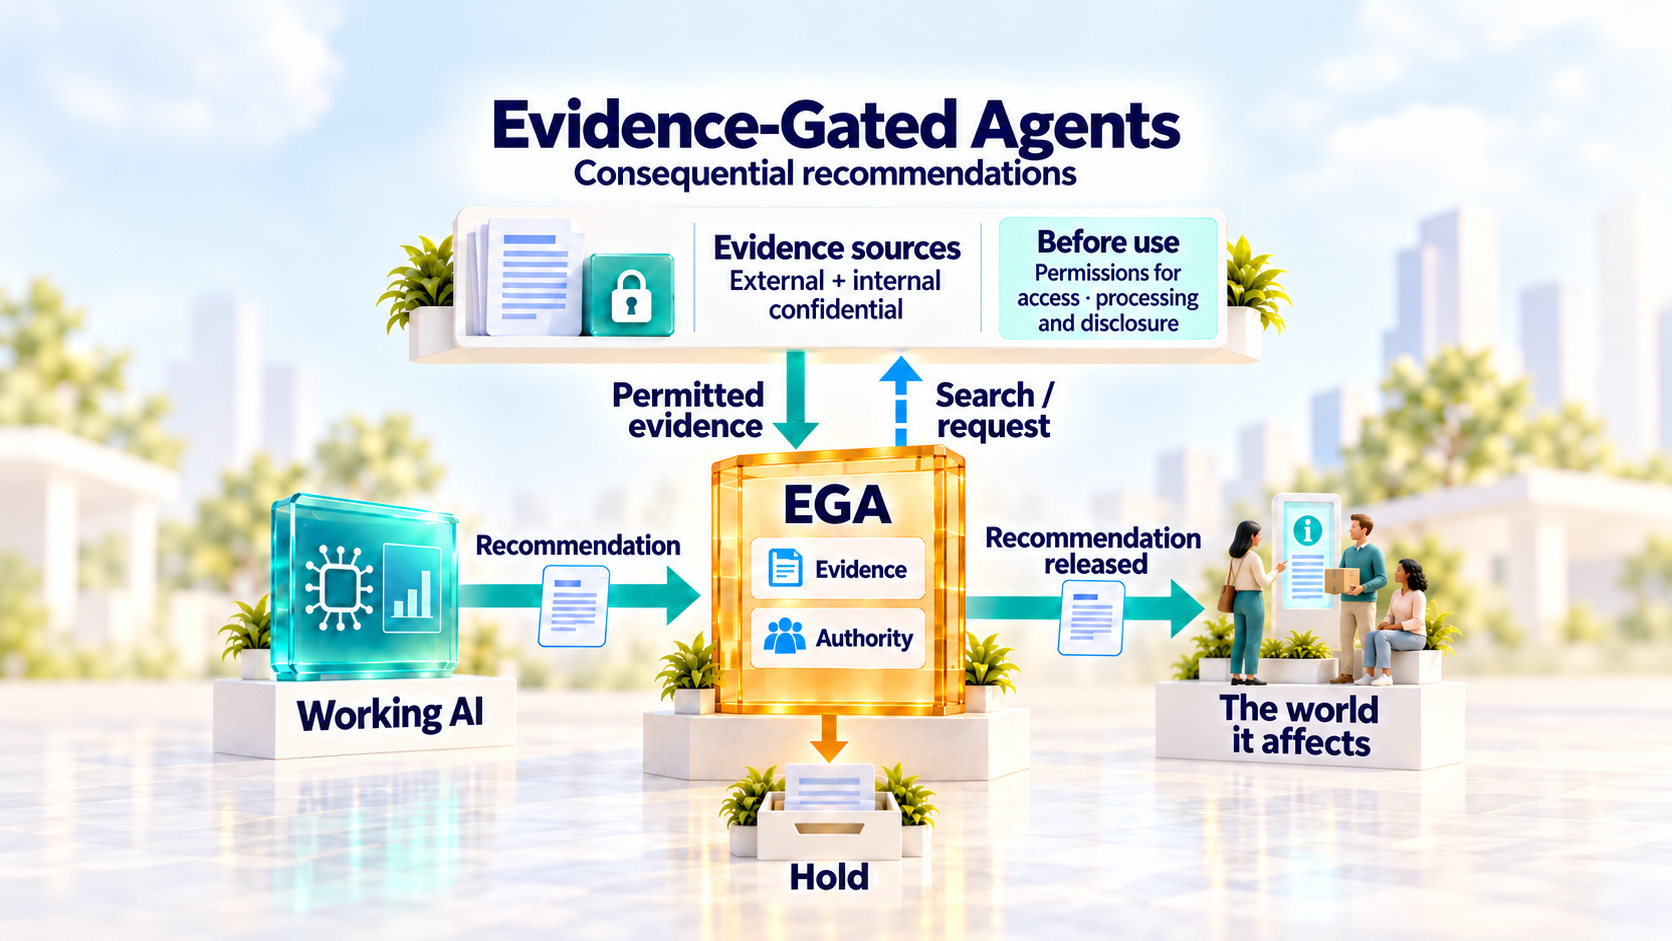
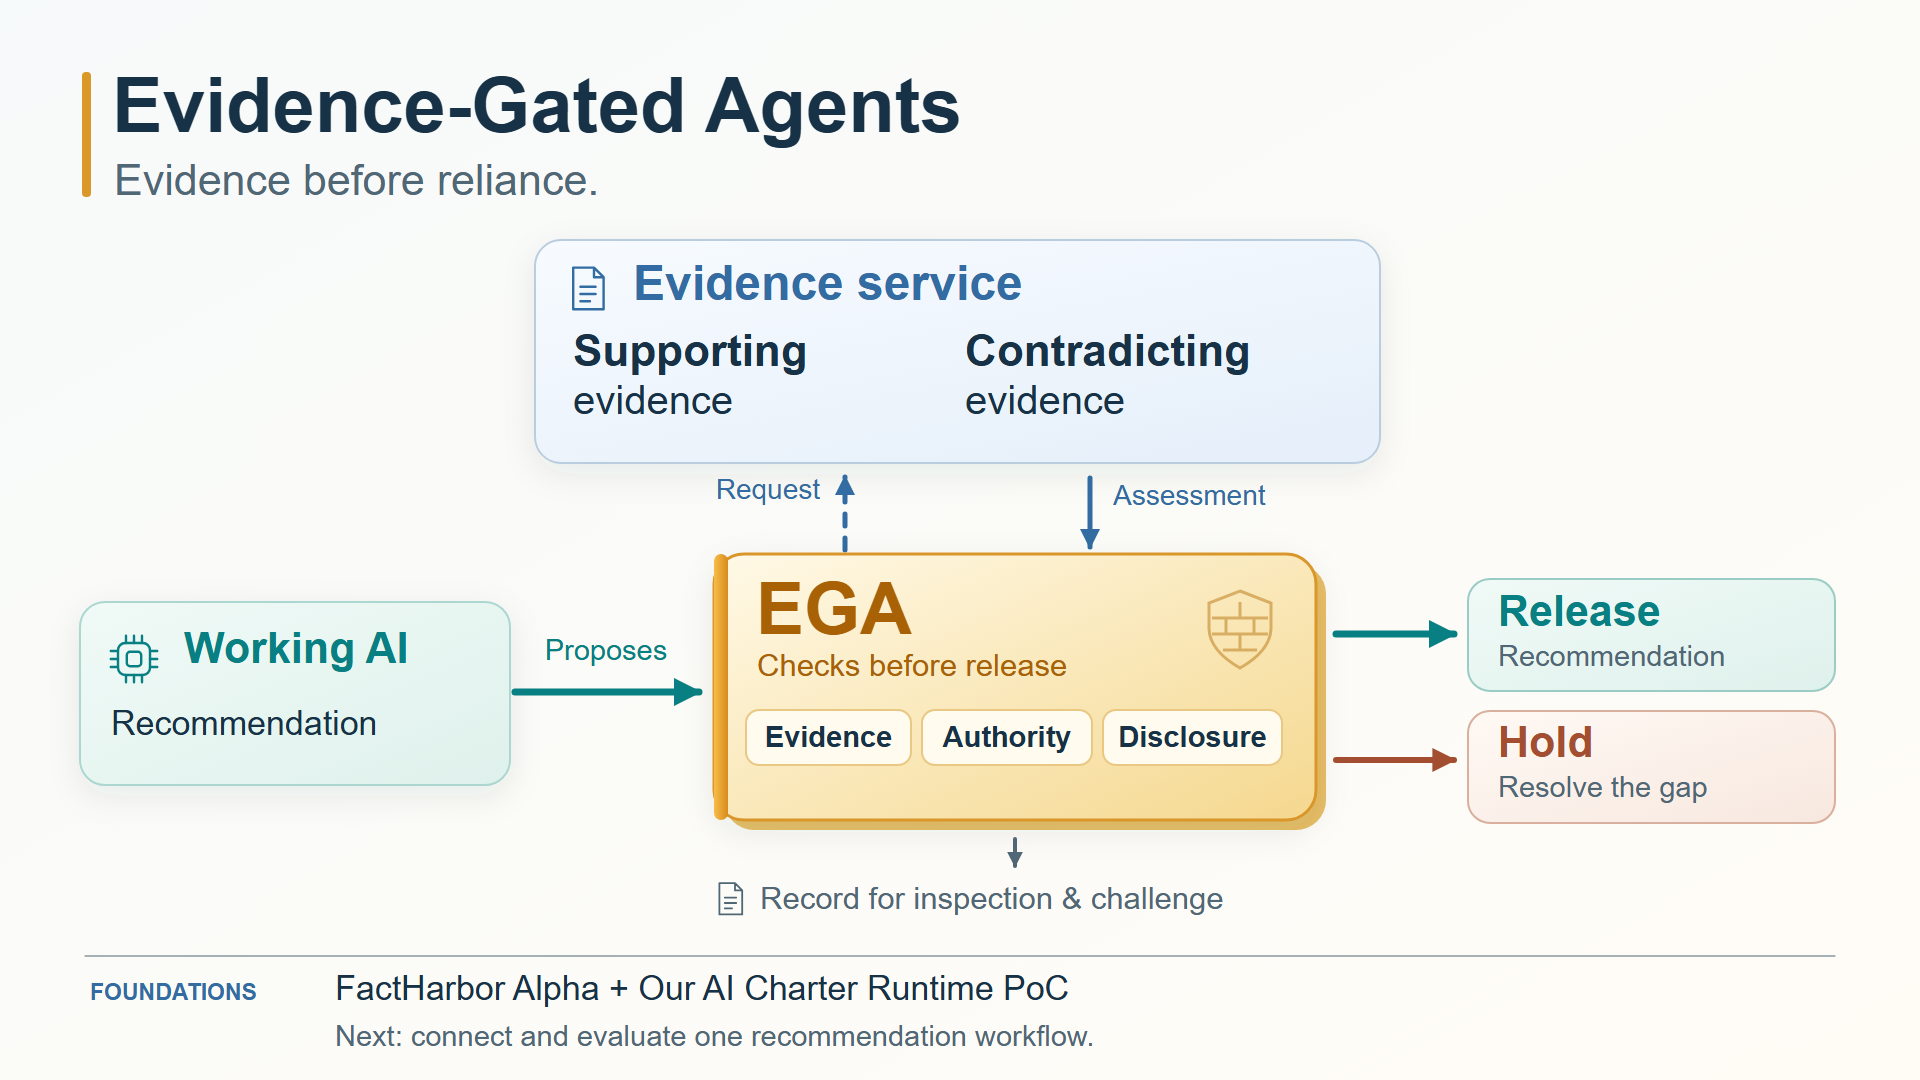
docs(ega): publish coordinated article illustrations

diff --git a/scripts/illustrations/ega-article-figures.py b/scripts/illustrations/ega-article-figures.py
@@ -1,0 +1,95 @@
+# SPDX-License-Identifier: AGPL-3.0-only
+"""One editable SVG design system; two publication compositions. No external assets."""
+from pathlib import Path
+from html import escape
+
+ROOT = Path(__file__).resolve().parents[2] / 'docs' / 'Published'
+INK = '#173146'
+MUTED = '#506775'
+TEAL = '#087F82'
+BLUE = '#326CA2'
+AMBER = '#A96106'
+RUST = '#A34E30'
+
+def text(x, y, value, size=32, color=INK, weight=400, anchor='start'):
+    return f'<text x="{x}" y="{y}" font-size="{size}" fill="{color}" font-weight="{weight}" text-anchor="{anchor}">{escape(value)}</text>'
+
+def rect(x,y,w,h,fill='#fff',stroke='none',r=24,sw=2,extra=''):
+    return f'<rect x="{x}" y="{y}" width="{w}" height="{h}" rx="{r}" fill="{fill}" stroke="{stroke}" stroke-width="{sw}" {extra}/>'
+
+def path(d,color=TEAL,sw=6,arrow=False,dash=False):
+    marker = {'#087F82':'teal','#326CA2':'blue','#A34E30':'rust','#506775':'slate'}[color]
+    return f'<path d="{d}" fill="none" stroke="{color}" stroke-width="{sw}" stroke-linecap="round" stroke-linejoin="round"'+(f' marker-end="url(#{marker})"' if arrow else '')+(' stroke-dasharray="12 12"' if dash else '')+'/>'
+
+def doc_icon(x,y,color=TEAL,scale=1):
+    return f'<g transform="translate({x} {y}) scale({scale})" fill="none" stroke="{color}" stroke-width="3" stroke-linecap="round" stroke-linejoin="round"><path d="M4 2 H30 L42 14 V54 H4 Z M30 2 V14 H42 M13 26 H32 M13 35 H32 M13 44 H25"/></g>'
+
+def chip(x,y,color=TEAL,scale=1):
+    return f'<g transform="translate({x} {y}) scale({scale})" fill="none" stroke="{color}" stroke-width="3" stroke-linecap="round"><rect x="10" y="10" width="40" height="40" rx="9"/><rect x="21" y="21" width="18" height="18" rx="4"/>'+''.join(f'<path d="M{n} 1 V10 M{n} 50 V59 M1 {n} H10 M50 {n} H59"/>' for n in [20,30,40])+'</g>'
+
+def lock(x,y,scale=1):
+    return f'<g transform="translate({x} {y}) scale({scale})" fill="none" stroke="{BLUE}" stroke-width="3.5" stroke-linejoin="round"><rect x="4" y="19" width="32" height="28" rx="6"/><path d="M11 19 V12 A9 9 0 0 1 29 12 V19 M20 29 V36"/></g>'
+
+def init(w,h,title,desc):
+    defs = '<defs><linearGradient id="paper" x2="1" y2="1"><stop stop-color="#F7FAFA"/><stop offset="1" stop-color="#FFFCF6"/></linearGradient><linearGradient id="cool" x2="0.7" y2="1"><stop stop-color="#F7FBFF"/><stop offset="1" stop-color="#E7F0FA"/></linearGradient><linearGradient id="mint" x2="1" y2="1"><stop stop-color="#F0FAF7"/><stop offset="1" stop-color="#DFF1EC"/></linearGradient><linearGradient id="warm" x2="1" y2="1"><stop stop-color="#FFF9F4"/><stop offset="1" stop-color="#F7E8DF"/></linearGradient><linearGradient id="gate" x2="1" y2="1"><stop stop-color="#FFF9E7"/><stop offset="1" stop-color="#F5D88F"/></linearGradient><linearGradient id="edge"><stop stop-color="#F8BD49"/><stop offset="1" stop-color="#D78B1C"/></linearGradient><filter id="shadow" x="-15%" y="-15%" width="130%" height="140%"><feDropShadow dx="0" dy="10" stdDeviation="16" flood-color="#183648" flood-opacity=".08"/></filter>'
+    for name,color in [('teal',TEAL),('blue',BLUE),('rust',RUST),('slate',MUTED)]:
+        defs += f'<marker id="{name}" viewBox="0 0 10 10" refX="9" refY="5" markerWidth="4" markerHeight="4" orient="auto"><path d="M0 0 L10 5 L0 10 Z" fill="{color}"/></marker>'
+    defs += '</defs>'
+    return [f'<svg xmlns="http://www.w3.org/2000/svg" width="{w}" height="{h}" viewBox="0 0 {w} {h}" role="img" aria-labelledby="title desc"><title id="title">{escape(title)}</title><desc id="desc">{escape(desc)}</desc><!-- SPDX-License-Identifier: CC-BY-SA-4.0 -->{defs}<g font-family="Arial, Helvetica, sans-serif">',rect(0,0,w,h,'url(#paper)',r=0)]
+
+def gate(x,y,w,h,detail=False):
+    a=[rect(x+10,y+10,w,h,'#E7BE67',r=30),rect(x,y,w,h,'url(#gate)','#D99629',30,3, 'filter="url(#shadow)"'),rect(x,y,14,h,'url(#edge)',r=7)]
+    # A restrained boundary emblem, without a tick or implied certification.
+    a += [f'<g transform="translate({x+w-112} {y+37})" fill="none" stroke="#BE8120" stroke-width="3" opacity=".55"><path d="M36 0 L67 12 V38 Q66 60 36 77 Q6 60 5 38 V12 Z"/><path d="M8 27 H64 M8 43 H64 M19 59 H53 M36 11 V27 M22 27 V43 M50 27 V43 M36 43 V59"/></g>']
+    a += [text(x+42,y+80,'EGA',72,AMBER,700),text(x+43,y+122,'Checks before release',31,AMBER)]
+    if detail:
+        for i,(label,question) in enumerate([('Evidence','Enough for this recommendation?'),('Authority','Within the current mandate?'),('Disclosure','Permitted to release this content?')]):
+            yy=y+153+i*79
+            a += [rect(x+32,yy,w-64,64,'#FFFCF2','#E9C884',12),text(x+55,yy+41,label,31,INK,700),text(x+265,yy+41,question,27,MUTED)]
+    else:
+        for xx,label,ww in [(x+32,'Evidence',165),(x+208,'Authority',170),(x+389,'Disclosure',179)]:
+            a += [rect(xx,y+156,ww,55,'#FFFBEE','#E9C884',13),text(xx+ww/2,y+193,label,29,INK,600,'middle')]
+    return ''.join(a)
+
+def save(name,a,w,h):
+    a.append('</g></svg>')
+    stem = 'evidence-gated-agents-before-we-rely' + ('-cover' if name == 'ega-cover' else '')
+    (ROOT/f'{stem}.svg').write_text('\n'.join(a),encoding='utf-8')
+
+
+def cover():
+    w,h=1920,1080
+    a=init(w,h,'Evidence-Gated Agents — evidence before reliance','Integration milestone: Working AI proposes a recommendation. EGA requests evidence examination from an evidence service, including supporting and contradicting evidence. Outside the acting AI, EGA checks evidence, authority and disclosure, then releases or holds the recommendation. Records support inspection and challenge. Existing foundations are FactHarbor Alpha and the Our AI Charter Runtime proof of concept. Their integration is the next milestone, not a deployed system.')
+    a += [rect(82,72,9,125,'#DA9829',r=4),text(112,132,'Evidence-Gated Agents',76,INK,700),text(114,195,'Evidence before reliance.',43,MUTED)]
+    a += [rect(535,240,845,223,'url(#cool)','#B9CDDF',26,2,'filter="url(#shadow)"'),doc_icon(570,266,BLUE,.8),text(633,300,'Evidence service',48,BLUE,700),text(573,366,'Supporting',44,INK,600),text(573,414,'evidence',40,INK),text(965,366,'Contradicting',44,INK,600),text(965,414,'evidence',40,INK)]
+    a += [path('M845 550 V477',BLUE,5,True,True),text(820,499,'Request',28,BLUE,500,'end'),path('M1090 478 V547',BLUE,5,True),text(1113,505,'Assessment',28,BLUE,500)]
+    a += [rect(80,602,430,183,'url(#mint)','#ACD7D0',25,2,'filter="url(#shadow)"'),chip(110,635,TEAL,.8),text(184,663,'Working AI',43,TEAL,700),text(111,735,'Recommendation',34,INK)]
+    a += [path('M515 692 H699',TEAL,7,True),text(606,660,'Proposes',29,TEAL,500,'middle'),gate(714,554,602,266)]
+    a += [path('M1336 634 H1454',TEAL,7,True),path('M1336 760 H1454',RUST,6,True)]
+    a += [rect(1468,579,367,112,'url(#mint)','#9ACCC4',22),text(1498,626,'Release',43,TEAL,700),text(1498,666,'Recommendation',29,MUTED),rect(1468,711,367,112,'url(#warm)','#D9AF9D',22),text(1498,757,'Hold',43,RUST,700),text(1498,797,'Resolve the gap',29,MUTED)]
+    a += [path('M1015 839 V866',MUTED,4,True),doc_icon(717,882,MUTED,.6),text(760,909,'Record for inspection & challenge',31,MUTED)]
+    a += [path('M85 956 H1835',MUTED,1),text(90,1000,'FOUNDATIONS',23,BLUE,700),text(335,1000,'FactHarbor Alpha  +  Our AI Charter Runtime PoC',34,INK,500),text(335,1046,'Next: connect and evaluate one recommendation workflow.',29,MUTED)]
+    save('ega-cover',a,w,h)
+
+def inline():
+    w,h=1600,1700
+    a=init(w,h,'Evidence-Gated Agents — how a recommendation is checked','Intended recommendation workflow, still to be integrated and evaluated. Permitted external and internal confidential sources feed an evidence service; confidential-source handling requires development. EGA requests examination of supporting and contradicting evidence and checks evidence, authority and disclosure outside the acting AI. A recommendation may be released, or held for missing evidence, a narrower proposal or authorised human judgment when needed. A limited decision record supports inspection, challenge and correction. Release does not execute an action.')
+    a += [rect(70,59,8,119,'#DA9829',r=4),text(99,110,'Evidence-Gated Agents',66,INK,700),text(101,169,'What must be checked before a recommendation proceeds?',31,MUTED)]
+    a += [path('M73 238 H112',TEAL,4),text(130,249,'Controls outside the acting AI',31,MUTED)]
+    # Source path is an intended extension, labelled where it appears rather than in a remote footer.
+    a += [rect(70,310,535,308,'#FFFFFF','#BDCEDB',22),lock(96,338,.8),text(145,370,'Evidence sources',37,INK,700),text(99,418,'External sources',32,MUTED),text(99,460,'Internal confidential sources',32,MUTED),text(99,507,'Before use: authorised',30,BLUE,600),text(99,545,'access + processing',30,BLUE,600),text(99,591,'Confidential handling: to build',28,MUTED)]
+    a += [path('M613 450 H688',TEAL,5,True),text(650,420,'Permitted',20,TEAL,500,'middle')]
+    a += [rect(704,310,826,308,'url(#cool)','#AEC7DE',22,2,'filter="url(#shadow)"'),text(738,374,'Evidence service',46,BLUE,700),text(738,441,'Supporting evidence',42,INK,600),text(738,497,'Contradicting evidence',42,INK,600),text(738,574,'Assesses; does not authorise release.',30,MUTED)]
+    a += [path('M845 717 V632',BLUE,5,True,True),text(822,678,'Search / request',25,BLUE,500,'end'),path('M1100 632 V717',BLUE,5,True),text(1122,678,'Assessment',26,BLUE,500)]
+    a += [rect(70,793,385,237,'url(#mint)','#ACD7D0',24,2,'filter="url(#shadow)"'),chip(100,825,TEAL,.7),text(167,864,'Working AI',38,TEAL,700),text(101,929,'Proposes an exact',29,INK),text(101,970,'recommendation',29,INK)]
+    a += [path('M464 907 H547',TEAL,6,True),gate(565,735,965,416,True)]
+    # Both outcomes follow the same boundary; no compulsory human approval chain.
+    a += [path('M775 1170 V1212 H438 V1232',TEAL,5,True),path('M1315 1170 V1232',RUST,5,True)]
+    a += [rect(70,1246,535,200,'url(#mint)','#9ACCC4',22),text(99,1293,'Released',39,TEAL,700),text(99,1337,'Recommendation + permitted',28,INK),text(99,1371,'evidence summary',28,INK),text(99,1413,'Release does not execute an action.',25,MUTED)]
+    a += [rect(649,1246,881,200,'url(#warm)','#D9AF9D',22),text(682,1293,'Held — resolve the gap',38,RUST,700),text(682,1349,'Request evidence • Check a narrower recommendation',26,INK),text(682,1401,'Authorised human judgment when needed',27,MUTED)]
+    a += [doc_icon(80,1494,MUTED,.75),text(131,1523,'Decision record',29,INK,700),text(410,1523,'Inspect • Challenge • Correct',28,MUTED),text(1020,1523,'Limited content, access & retention',24,MUTED)]
+    a += [path('M80 1572 H1520',MUTED,1),text(80,1625,'EXISTING FOUNDATIONS',23,BLUE,700),text(445,1625,'FactHarbor Alpha + Our AI Charter Runtime PoC',30,INK,500),text(445,1666,'Integration remains to be built and evaluated.',26,MUTED)]
+    save('ega-inline',a,w,h)
+
+cover()
+inline()

diff --git a/README.md b/README.md
@@ -28,7 +28,7 @@ Status is shown inline here. Normative and outreach drafts use page banners; ext
 
 Articles published on this website, alongside mirrors and translations of external articles. Browse the compact [published-article index](docs/Published/index.md); external publication dates are shown below and in the mirrored articles. Articles published only in this repository or on its website use Git history instead of publication labels or dates.
 
-- **[Evidence-Gated Agents: Before We Rely on an AI Recommendation](docs/Published/evidence-gated-agents-before-we-rely.md)** — *PUBLISHED* (2026-10-05). The evidence gap behind convincing recommendations, current foundations and a concrete cooperation milestone. Includes the accompanying post and simplified illustration. [Article](https://www.linkedin.com/pulse/evidence-gated-agents-before-we-rely-ai-robert-schaub-ydrne/) · [Post](https://www.linkedin.com/feed/update/urn:li:ugcPost:7512953020503105536/).
+- **[Evidence-Gated Agents: Before We Rely on an AI Recommendation](docs/Published/evidence-gated-agents-before-we-rely.md)** — *PUBLISHED* (2026-10-05). The evidence gap behind convincing recommendations, current foundations and a concrete cooperation milestone. Includes the accompanying post, cover and detailed illustration. [Article](https://www.linkedin.com/pulse/evidence-gated-agents-before-we-rely-ai-robert-schaub-ydrne/) · [Post](https://www.linkedin.com/feed/update/urn:li:ugcPost:7512953020503105536/).
 
 - **[Public AI, Built Together — Towards Geneva 2027](docs/Published/public-ai-towards-geneva-2027.md)** — The wider movement, current EGA contribution and open routes to a useful Geneva contribution, subject to scope, collaborators and resources.
 

diff --git a/docs/Published/evidence-gated-agents-before-we-rely.md b/docs/Published/evidence-gated-agents-before-we-rely.md
@@ -15,7 +15,7 @@ https://robertschaub.github.io/our-ai-charter/Assurance/Concepts/evidence-gated-
 
 𝘍𝘶𝘭𝘭 𝘢𝘳𝘵𝘪𝘤𝘭𝘦 𝘣𝘦𝘭𝘰𝘸 ↓
 ***
-[![EGA consequential-recommendation design: Working AI submits a recommendation to a separate amber EGA boundary. EGA searches or requests permitted external and internal confidential evidence, checks evidence and authority, and releases the recommendation or holds it. Access, processing and disclosure permissions apply before evidence use.](evidence-gated-agents-before-we-rely-cover.png)](evidence-gated-agents-before-we-rely.png)
+[![EGA recommendation design: Working AI proposes a recommendation. A separate amber EGA boundary requests supporting and contradicting evidence from an evidence service, checks evidence, authority and disclosure, then releases or holds the recommendation. A record supports inspection and challenge. FactHarbor Alpha and the Runtime proof of concept are existing foundations; integration remains the next milestone. Open the image for the fuller illustration, including confidential-source permissions and next steps after a hold.](evidence-gated-agents-before-we-rely-cover.png)](evidence-gated-agents-before-we-rely.png)
 ***
 
 *EGA recommendation design. Integration and confidential-source handling remain to be built. Releasing a recommendation does not execute an action.*

diff --git a/docs/Published/index.md b/docs/Published/index.md
@@ -2,7 +2,7 @@
 
 Published articles and translations from Our AI Charter. The synthesis brings the essential argument into one place; the earlier articles are grouped by the part of the argument they develop.
 
-- **[Evidence-Gated Agents: Before We Rely on an AI Recommendation](evidence-gated-agents-before-we-rely.md)** — 2026-10-05 · Why a well-cited recommendation can still lack the evidence a decision needs; existing foundations, the next integration milestone and opportunities to contribute.
+- **[Evidence-Gated Agents: Before We Rely on an AI Recommendation](evidence-gated-agents-before-we-rely.md)** — 2026-10-05 · Why a convincing recommendation can still lack the evidence a decision needs; existing foundations, the next integration milestone and opportunities to contribute.
 
 - **[Public AI, Built Together — Towards Geneva 2027](public-ai-towards-geneva-2027.md)** — The wider public-AI movement, the current EGA contribution and an open path to Geneva through useful, bounded cooperation.
 

diff --git a/CHANGELOG.md b/CHANGELOG.md
@@ -2,6 +2,10 @@
 
 Notable changes to the charter and its drafts. Dates are ISO (YYYY-MM-DD).
 
+## 2026-10-06
+
+- Replaced the EGA article's illustrations with a coordinated cover and detailed diagram showing the evidence service, supporting and contradicting evidence, release checks and hold routes. Preserved editable SVGs and their shared source; kept the project overview illustration unchanged.
+
 ## 2026-10-05
 
 - Removed the EGA overview's draft banner and matching index label; development status and implementation limits remain explicit in the text.
